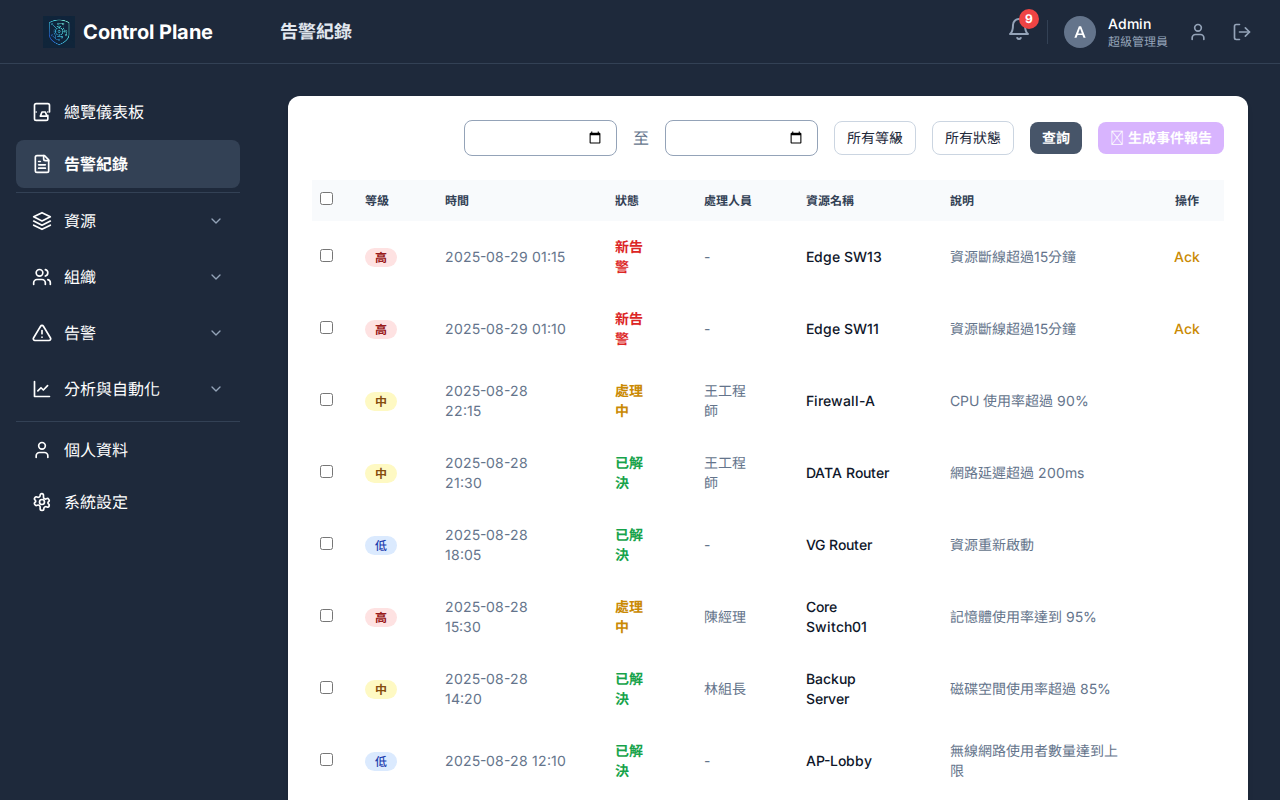
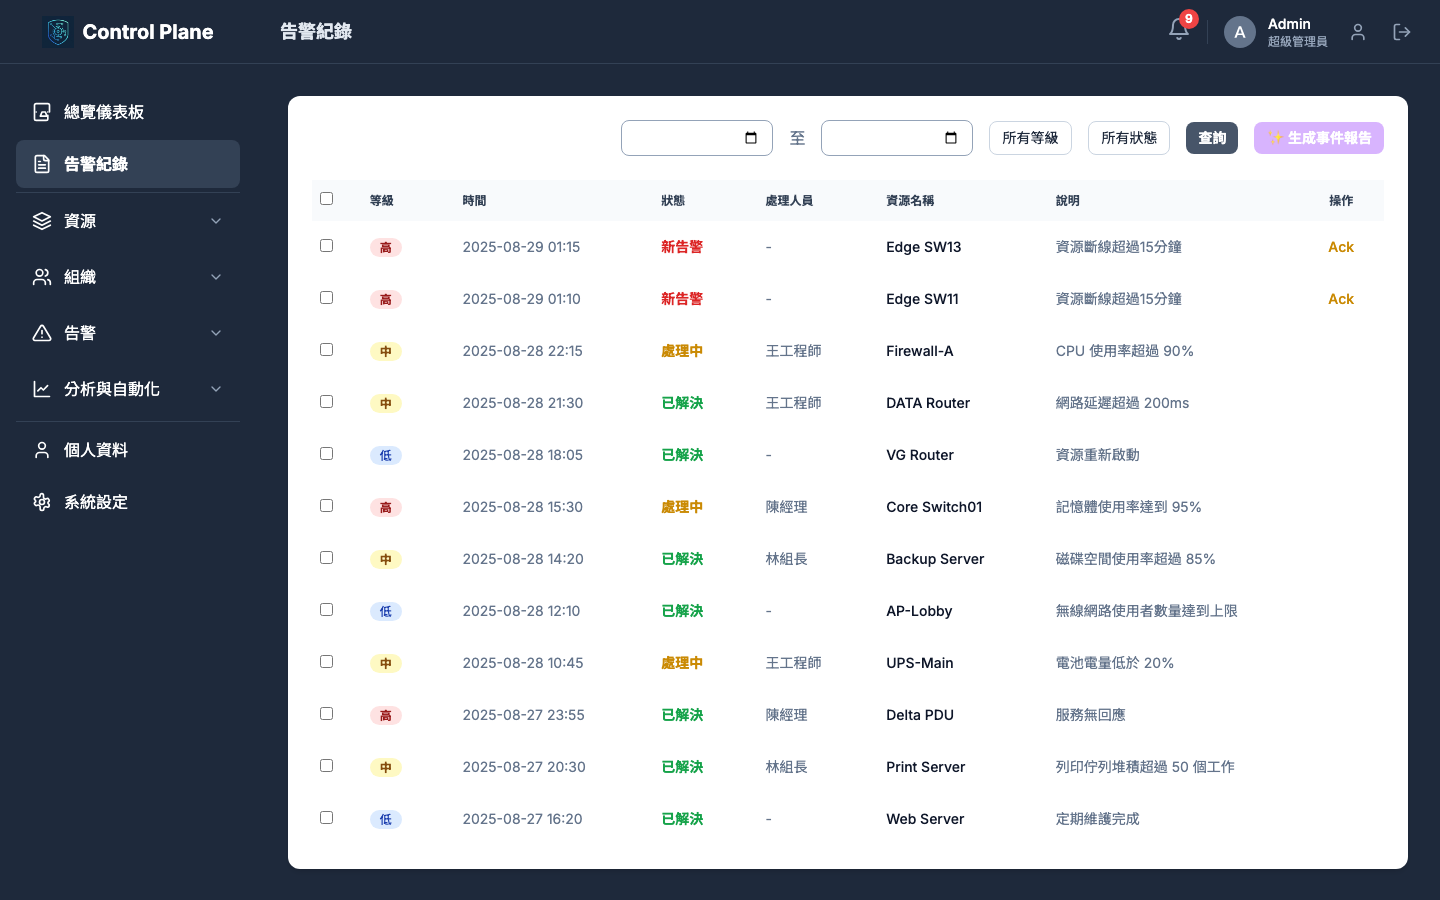
update

diff --git a/jules-scratch/create_gif.py b/jules-scratch/create_gif.py
@@ -11,7 +11,7 @@ def run_gif_creation(playwright):
 
     browser = playwright.chromium.launch(headless=True)
     page = browser.new_page()
-    page.set_viewport_size({"width": 1280, "height": 800})
+    page.set_viewport_size({"width": 1440, "height": 900})
     file_path = os.path.abspath('demo-page.html')
     page.goto(f'file://{file_path}')
 

diff --git a/jules-scratch/README.md b/jules-scratch/README.md
@@ -1,6 +1,6 @@
 # 自動化截圖腳本說明
 
-這個目錄包含了兩個 Python 腳本，用於自動化截取 `demo-page.html` 的各個頁面和彈出視窗。
+這個目錄包含了三個 Python 腳本，用於自動化截取 `demo-page.html` 的各個頁面和彈出視窗。
 
 ## 環境設定
 
@@ -35,3 +35,37 @@ python screenshot_modals.py
 
 - 腳本預設會以 `headless` (無頭) 模式執行瀏覽器。
 - 兩個腳本都依賴於 `demo-page.html` 檔案必須存在於它們執行的上一層目錄中。
+
+---
+
+## 3. `create_gif.py` (產生 demo.gif)
+
+這個腳本用於完整地產生 `demo.gif` 動畫，它會自動執行以下操作：
+1.  模擬使用者登入、操作平台各項核心功能。
+2.  在 `jules-scratch/gif_frames/` 目錄下產生一系列操作畫面的 `.png` 格式截圖。
+
+### 如何更新 `demo.gif`
+
+更新 `demo.gif` 包含兩個步驟：
+
+#### 步驟一：產生畫面幀
+
+首先，執行 `create_gif.py` 腳本來產生所有動畫需要的畫面。
+
+```bash
+python3 jules-scratch/create_gif.py
+```
+
+#### 步驟二：合成 GIF 動畫
+
+產生完畫面後，需要使用 `ImageMagick` 工具來將所有 `.png` 圖片合成為一個 GIF 檔案。
+
+**依賴工具**：請先確保您已安裝 ImageMagick。
+- **macOS (Homebrew)**: `brew install imagemagick`
+- **Debian/Ubuntu**: `sudo apt-get install imagemagick`
+
+執行以下指令來合成 `demo.gif`，這個指令會將 `gif_frames` 目錄中的所有圖片打包成 `demo.gif` 並存放在專案根目錄。
+
+```bash
+convert -delay 80 -loop 0 jules-scratch/gif_frames/frame_*.png -resize 1440x900 demo.gif
+```
